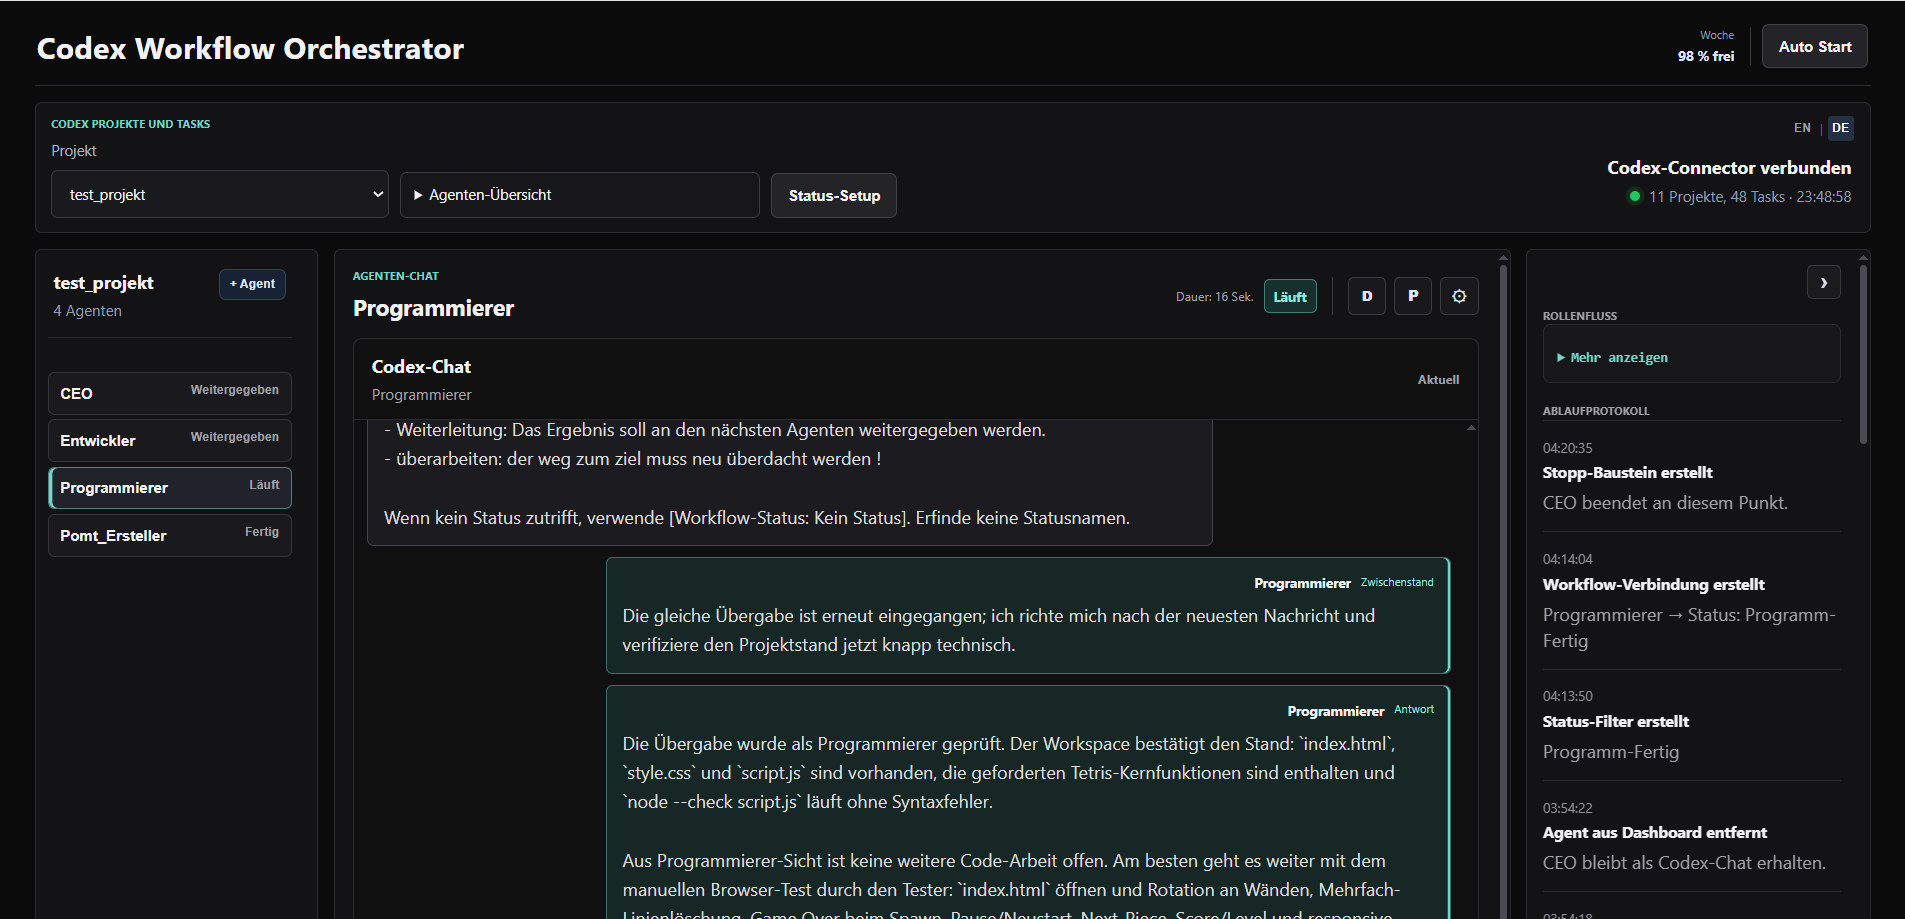
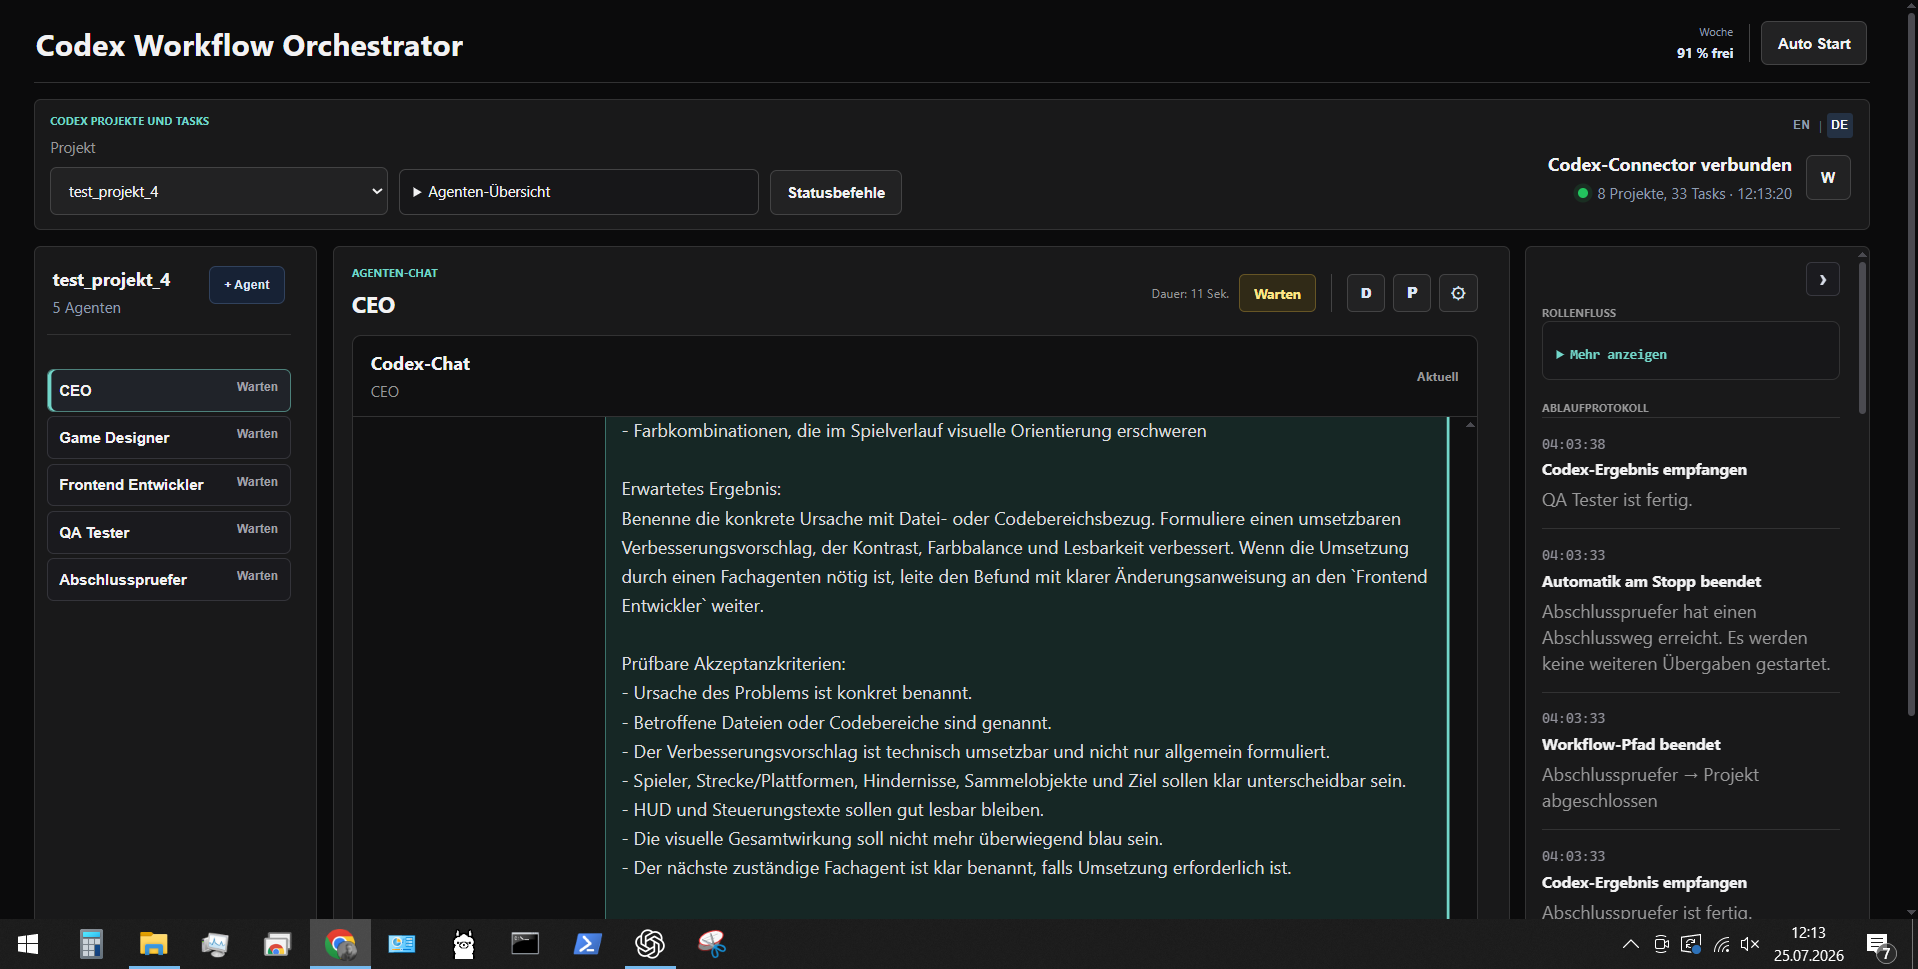
Refresh interface screenshots

diff --git a/README.md b/README.md
@@ -62,6 +62,8 @@ Im Setup werden Name, Rolle, Modell und die für den Agenten erlaubten Statusbef
 
 Ein Verwaltungsagent kann andere Agenten desselben Projekts überwachen. Im Setup wird festgelegt, ob das ganze Team oder nur ausgewählte Agenten geprüft werden; zusätzlich lässt sich das Prüfintervall in Minuten einstellen. Bei der Team-Auswahl werden später hinzukommende Agenten automatisch einbezogen. Solange die Automatik läuft, erhält der Verwaltungsagent regelmäßig eine kompakte Übersicht aus Laufstatus, Anzahl abgeschlossener Läufe und letztem Ergebnis. Er bewertet daraus Blockaden, Widersprüche, Wiederholungen und sinnvolle nächste Schritte.
 
+![Verwaltungs-Setup mit CEO-Anweisungen, Überwachung und Team-Aufbau](bilder/verwaltung_setup.PNG)
+
 Die Überwachung startet keine eigenmächtigen Änderungen an Agenten, Prompt-Dateien oder Dashboard-Verbindungen. Der Verwaltungsagent liefert eine fachliche Bewertung und konkrete Empfehlungen; technische Änderungen bleiben beim Orchestrator und benötigen eine Benutzerfreigabe.
 
 #### Kontrollierter Team-Aufbau
